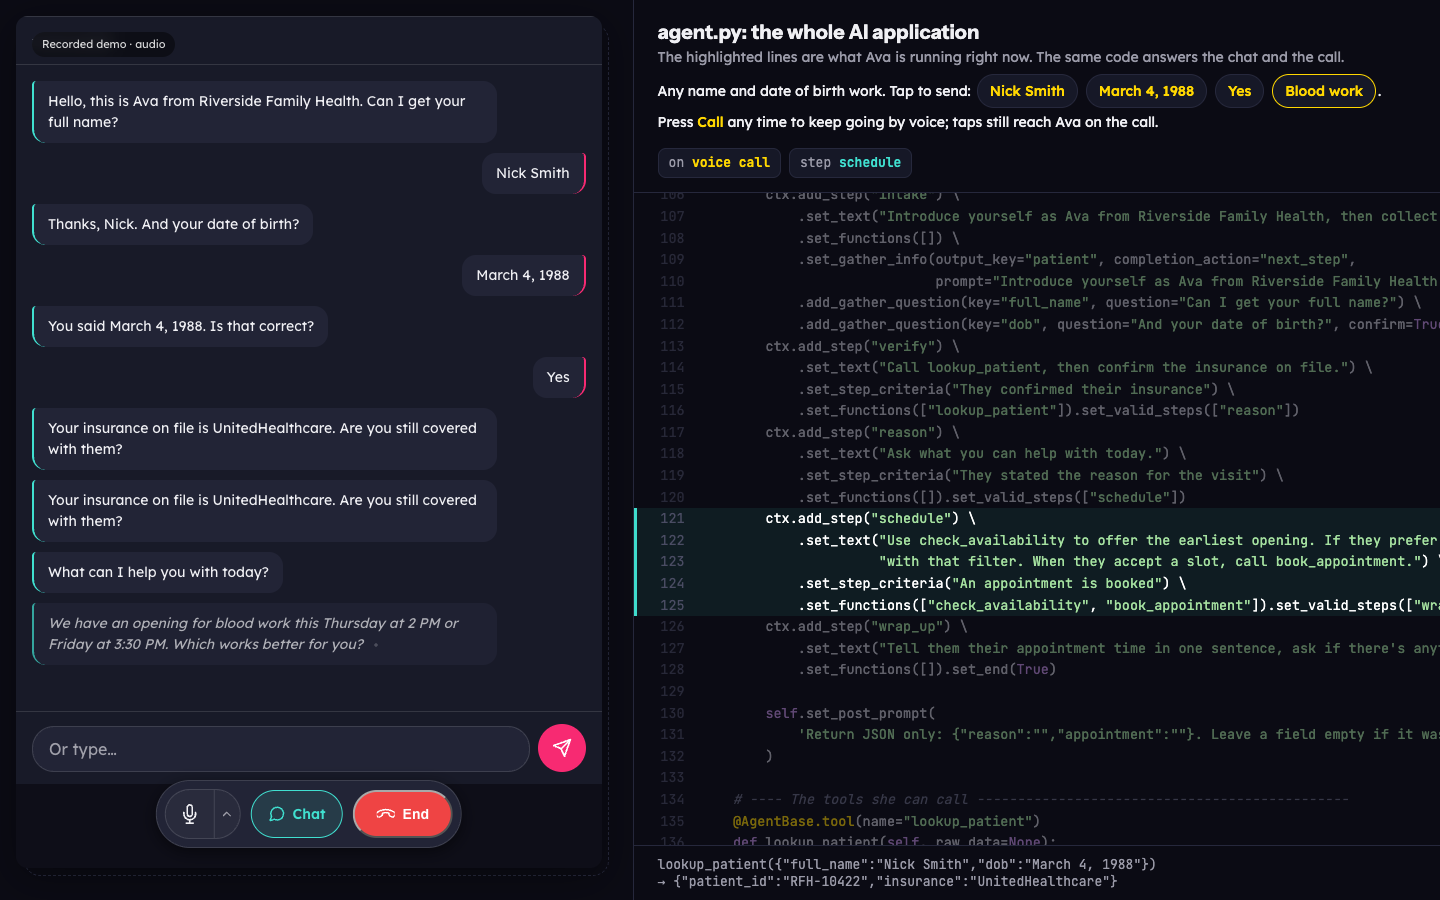
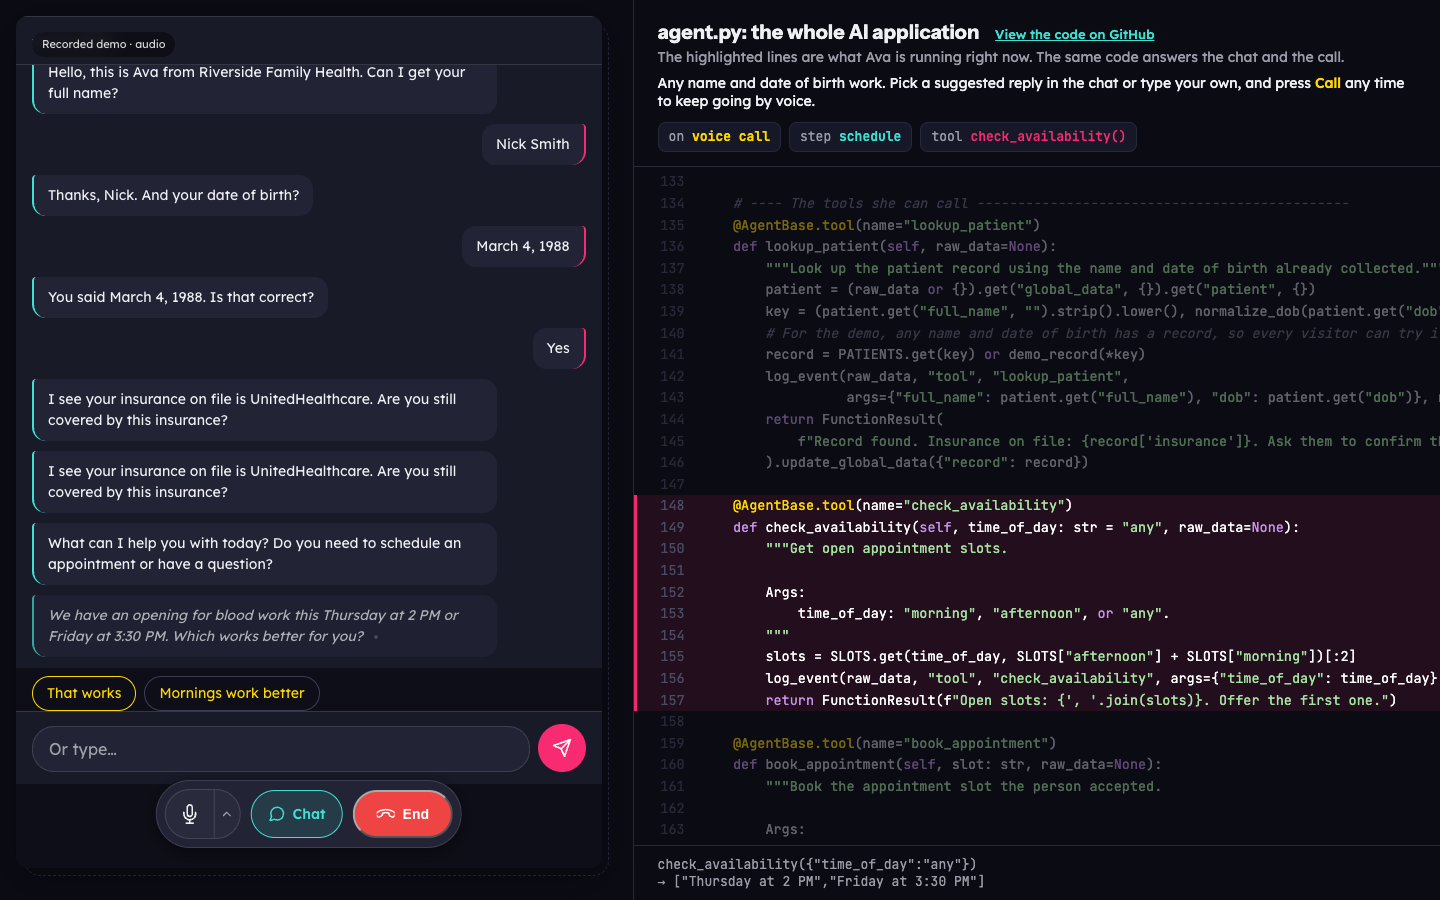
Suggested replies inside the chat window; API paths under /api/healthcare
Replies that follow Ava's latest question sit above the message box in chat
and on a call; tap one or type. Verified: e2e_test.py 16/16, call ended.

Claude-Session: https://claude.ai/code/session_01Dht9Ri7DzYm8fV22TAx4bJ

diff --git a/web/index.html b/web/index.html
@@ -3,7 +3,7 @@
 <head>
 <meta charset="utf-8">
 <meta name="viewport" content="width=device-width, initial-scale=1">
-<title>Chat with Ava</title>
+<title>Healthcare Front Desk</title>
 <link href="https://fonts.googleapis.com/css2?family=Instrument+Sans:wght@600&family=JetBrains+Mono:wght@400;600&family=Lexend:wght@400;500&display=swap" rel="stylesheet">
 <style>
   :root { --page:#0b0b14; --raised:#161827; --line:#26283c; --fg:#f0f0f4; --muted:#9a9aa8;
@@ -29,11 +29,9 @@
   .code { display:flex; flex-direction:column; min-width:0; height:100vh }
   .code header { padding:20px var(--gutter) 14px; border-bottom:1px solid var(--line) }
   .code h2 { font-family:'Instrument Sans', system-ui, sans-serif; font-size:20px; margin:0 0 4px }
+  .code h2 .repo { font-family:'Lexend', system-ui, sans-serif; font-size:13px; font-weight:500; color:var(--turq); margin-left:12px; white-space:nowrap }
   .code header p { margin:0; color:var(--muted); font-size:14px }
-  .code header p.try { margin-top:8px; color:var(--fg); line-height:2 } .try b { color:var(--gold); font-weight:500 }
-  .say { font:inherit; font-weight:500; color:var(--gold); background:var(--raised); border:1px solid var(--line);
-    border-radius:999px; padding:2px 12px; margin:0 2px; cursor:pointer }
-  .say:hover, .say:focus-visible { border-color:var(--gold); outline:none }
+  .code header p.try { margin-top:8px; color:var(--fg) } .try b { color:var(--gold); font-weight:500 }
   .now { display:flex; flex-wrap:wrap; gap:8px; margin-top:12px; min-height:30px }
   .chip { font-family:'JetBrains Mono', monospace; font-size:13px; padding:5px 10px; border-radius:8px; background:var(--raised);
     border:1px solid var(--line); color:var(--muted) }
@@ -73,14 +71,9 @@
 
   <section class="code">
     <header>
-      <h2>agent.py: the whole AI application</h2>
+      <h2>agent.py: the whole AI application <a class="repo" href="https://github.com/signalwire-demos/healthcare-front-desk" target="_blank" rel="noopener">View the code on GitHub</a></h2>
       <p>The highlighted lines are what Ava is running right now. The same code answers the chat and the call.</p>
-      <p class="try">Any name and date of birth work. Tap to send:
-        <button type="button" class="say" data-say="Nick Smith">Nick Smith</button>
-        <button type="button" class="say" data-say="March 4, 1988">March 4, 1988</button>
-        <button type="button" class="say" data-say="Yes">Yes</button>
-        <button type="button" class="say" data-say="Blood work">Blood work</button>.
-        Press <b>Call</b> any time to keep going by voice; taps still reach Ava on the call.</p>
+      <p class="try">Any name and date of birth work. Pick a suggested reply in the chat or type your own, and press <b>Call</b> any time to keep going by voice.</p>
       <div class="now" id="now"><span class="chip">Waiting for the first message</span></div>
     </header>
     <pre id="src"></pre>
@@ -111,7 +104,7 @@ function paint(line) {
 }
 
 async function loadCode() {
-  const c = await (await fetch('/api/riverside/code')).json();
+  const c = await (await fetch('/api/healthcare/code')).json();
   anchors = c.anchors;
   src.innerHTML = c.source.split('\n').map((l) => `<span class="ln">${paint(l) || ' '}</span>`).join('');
   lineEls = [...src.querySelectorAll('.ln')];
@@ -177,7 +170,7 @@ async function poll() {
   let best = null;
   for (const hd of handles) {
     try {
-      const r = await fetch('/api/riverside/events?handle=' + encodeURIComponent(hd));
+      const r = await fetch('/api/healthcare/events?handle=' + encodeURIComponent(hd));
       if (!r.ok) continue;
       const j = await r.json(), t = j.events.length ? j.events[j.events.length - 1].t : 0;
       if (!best || t > best.t) best = { t, ...j };
@@ -200,7 +193,7 @@ function watchCalls(widget) {
 
 (async () => {
   await loadCode();
-  const cfg = await (await fetch('/api/riverside/config')).json();
+  const cfg = await (await fetch('/api/healthcare/config')).json();
   const opts = {
     mode: 'both', defaultMode: 'chat', presentation: 'panel', position: 'top-left',
     gatewayUrl: cfg.gatewayUrl, chatKey: cfg.chatKey, chatStorageKey: STORAGE_KEY, widgetId: 'riverside',
@@ -215,7 +208,7 @@ function watchCalls(widget) {
   const toVoice = widget.switchToVoice.bind(widget);
   widget.switchToVoice = async () => {
     let r, j = {};
-    try { r = await fetch('/api/token/riverside'); j = await r.json().catch(() => ({})); } catch (e) { r = null; }
+    try { r = await fetch('/api/token/healthcare'); j = await r.json().catch(() => ({})); } catch (e) { r = null; }
     if (!r || !r.ok || !j.token || !j.address) {
       const d = j && j.detail, msg = (d && (d.error || d.message)) || (typeof d === 'string' ? d : '') ||
         'Voice calls are not available right now. You can keep chatting.';
@@ -252,15 +245,65 @@ function watchCalls(widget) {
     const d = widget.shadowRoot && widget.shadowRoot.querySelector('dialog.overlay');
     if (d && (widget._overlayState === 'entering' || widget._overlayState === 'open') && !d.open) d.show();
   };
-  // Tap-to-send: in chat it is a chat message; on a call it goes in as a typed turn (type-to-talk).
-  document.querySelectorAll('.say').forEach((btn) => btn.addEventListener('click', async () => {
-    const text = btn.dataset.say;
-    if (widget._overlayState === 'closed') await widget.open();
+  // Suggested replies live inside the chat window, above the message box, in chat and on a call.
+  // They follow Ava's latest question; a tap sends it, or the visitor types their own answer.
+  const SUGGEST = [
+    [/full name|your name/, ['Nick Smith', 'Maria Lopez']],
+    [/date of birth|birthday/, ['March 4, 1988', 'November 21, 1975']],
+    [/is that correct|is that right|did i get that/, ['Yes', 'No']],
+    [/covered|insurance|still active/, ['Yes, still covered', 'No, I changed plans']],
+    [/help you with|reason for|bring you in|what can i/, ['Blood work', 'Annual checkup']],
+    [/\d ?(am|pm)|morning or afternoon|which works|work for you|prefer/, ['That works', 'Mornings work better']],
+    [/anything else/, ["No, that's all", 'What time was that again?']],
+  ];
+  function suggestions() {
+    const history = (widget._chat && widget._chat.getHistory && widget._chat.getHistory()) || [];
+    const last = [...history].reverse().find((e) => e.speaker === 'ai');
+    const said = ((last && last.text) || '').toLowerCase();
+    const hit = SUGGEST.find(([re]) => re.test(said));
+    return hit ? hit[1] : [];
+  }
+  async function sendToAva(text) {
     if (widget._activeMedium === 'voice' && widget._typeToTalkAvailable()) return widget._sendTypedMessage(text);
-    // A chat message sent while Ava is still replying is dropped, so a quick second tap waits its turn.
+    // A chat message sent while Ava is still replying is dropped, so a quick tap waits its turn.
     for (let i = 0; i < 120 && (widget._chatBusy || widget._chatAwaitingReply); i++) await new Promise((r) => setTimeout(r, 250));
     widget._sendChatMessage(text);
-  }));
+  }
+  const sheet = new CSSStyleSheet();
+  sheet.replaceSync(`.sw-suggest { display:flex; flex-wrap:wrap; gap:8px; padding:8px 16px 0 }
+    .sw-suggest[hidden] { display:none }
+    .sw-suggest button { font:inherit; font-size:14px; color:#FFD700; background:transparent; border:1px solid #3a3c55;
+      border-radius:999px; padding:6px 14px; cursor:pointer }
+    .sw-suggest button:hover, .sw-suggest button:focus-visible { border-color:#FFD700; outline:none }`);
+  let shownKey = null;
+  function ensureSuggestions() {
+    const root = widget.shadowRoot;
+    const form = root && root.querySelector('form[part="composer"]');
+    if (!form) return;
+    if (!root.adoptedStyleSheets.includes(sheet)) root.adoptedStyleSheets = [...root.adoptedStyleSheets, sheet];
+    let bar = root.querySelector('.sw-suggest');
+    if (!bar || bar.nextElementSibling !== form) {   // the widget re-rendered: put the bar back above the box
+      if (bar) bar.remove();
+      bar = document.createElement('div');
+      bar.className = 'sw-suggest';
+      bar.setAttribute('aria-label', 'Suggested replies');
+      form.parentNode.insertBefore(bar, form);
+      shownKey = null;
+    }
+    const items = suggestions(), key = items.join('|');
+    if (key === shownKey) return;
+    shownKey = key;
+    bar.hidden = !items.length;
+    bar.replaceChildren(...items.map((text) => {
+      const b = document.createElement('button');
+      b.type = 'button'; b.textContent = text; b.dataset.say = text;
+      b.addEventListener('click', () => sendToAva(text));
+      return b;
+    }));
+  }
+  const updated = widget.updated.bind(widget);
+  widget.updated = (...a) => { updated(...a); ensureSuggestions(); };
+  setInterval(ensureSuggestions, 500);
   widget.open();
   poll();
 })();

diff --git a/app.py b/app.py
@@ -3,11 +3,11 @@ Hosts Ava (agent.py) for the chat page. Nothing in here is about Ava herself.
 
   /                        the page: SignalWire address widget + live code panel
   /riverside               Ava's SWML, fetched by the AI Chat service and by calls (basic auth)
-  /api/riverside/chat/...  ChatGateway (text turns) and HandoffRouter (chat <-> call), from signalwire-sdk
-  /api/riverside/config    gateway URL and publishable chat key for the page
-  /api/token/riverside     a guest token for the browser call, minted when Call is pressed
-  /api/riverside/code      agent.py with the line ranges the code panel lights up
-  /api/riverside/events    what ran in this conversation
+  /api/healthcare/chat/...  ChatGateway (text turns) and HandoffRouter (chat <-> call), from signalwire-sdk
+  /api/healthcare/config    gateway URL and publishable chat key for the page
+  /api/token/healthcare     a guest token for the browser call, minted when Call is pressed
+  /api/healthcare/code      agent.py with the line ranges the code panel lights up
+  /api/healthcare/events    what ran in this conversation
 
 Run:  python app.py   (one process: conversations, handoffs and rate limits live in memory)
 """
@@ -255,19 +255,19 @@ def create_server():
     @server.app.middleware("http")
     async def chat_root(request: Request, call_next):
         # The widget posts to the gateway URL itself; the SDK router answers on ".../chat/".
-        if request.url.path == "/api/riverside/chat":
-            request.scope["path"] = "/api/riverside/chat/"
+        if request.url.path == "/api/healthcare/chat":
+            request.scope["path"] = "/api/healthcare/chat/"
         return await call_next(request)
 
-    server.app.include_router(gateway.router(), prefix="/api/riverside/chat")
-    server.app.include_router(handoff.router(), prefix="/api/riverside/chat")
+    server.app.include_router(gateway.router(), prefix="/api/healthcare/chat")
+    server.app.include_router(handoff.router(), prefix="/api/healthcare/chat")
     server.register(agent, "/riverside")
 
-    @server.app.get("/api/riverside/config")
+    @server.app.get("/api/healthcare/config")
     def config():
-        return {"gatewayUrl": "/api/riverside/chat", "chatKey": CHAT_KEY}
+        return {"gatewayUrl": "/api/healthcare/chat", "chatKey": CHAT_KEY}
 
-    @server.app.get("/api/token/riverside")
+    @server.app.get("/api/token/healthcare")
     def call_token(request: Request):
         ip = (request.headers.get("cf-connecting-ip") or request.headers.get("x-forwarded-for", "").split(",")[0]
               or (request.client.host if request.client else "")).strip()
@@ -285,11 +285,11 @@ def create_server():
         TOKEN_MINTS[ip].append(now)
         return {"token": r.json()["token"], "address": handler_info["address"]}
 
-    @server.app.get("/api/riverside/code")
+    @server.app.get("/api/healthcare/code")
     def code():
         return code_map()
 
-    @server.app.get("/api/riverside/events")
+    @server.app.get("/api/healthcare/events")
     def events(handle: str = ""):
         try:
             session = root_of(gateway.read_handle(handle))

diff --git a/e2e_test.py b/e2e_test.py
@@ -55,7 +55,7 @@ def say(page, msg):
     box.press("Enter")
 
 def events(page):
-    return page.evaluate("async () => { const hs=[...handles]; let best=null; for (const h of hs) { const r=await fetch('/api/riverside/events?handle='+encodeURIComponent(h)); if(!r.ok) continue; const j=await r.json(); const t=j.events.length?j.events[j.events.length-1].t:0; if(!best||t>best.t) best={t,...j}; } return best; }")
+    return page.evaluate("async () => { const hs=[...handles]; let best=null; for (const h of hs) { const r=await fetch('/api/healthcare/events?handle='+encodeURIComponent(h)); if(!r.ok) continue; const j=await r.json(); const t=j.events.length?j.events[j.events.length-1].t:0; if(!best||t>best.t) best={t,...j}; } return best; }")
 
 with sync_playwright() as p:
     browser = p.chromium.launch(channel="chrome", headless=True, args=[

diff --git a/README.md b/README.md
@@ -19,7 +19,8 @@ Try it live on [tryit.signalwire.com](https://tryit.signalwire.com/apps/healthca
   `schedule`, `wrap_up`). The patient record, the booking and the summary come from code, so the model
   cannot double-book or invent a patient.
 - **Any name works.** For the demo, any name and date of birth gets a stable made-up record. The page
-  has tap-to-send buttons for the details, which also reach Ava during a call (type-to-talk).
+  shows suggested replies above the message box that follow Ava's latest question. Tap one or type
+  your own; on a call, taps reach Ava as typed turns (type-to-talk).
 
 All patient data is fictional.
 
@@ -74,6 +75,7 @@ in the page. Re-check them if you upgrade the widget:
 - After switching back to text, a late call "disconnected" event closed the panel.
 - The panel opened as a modal dialog, which blocked the rest of the page.
 - A chat message sent while Ava was still replying was dropped.
+- There is no suggested-replies feature, so the page inserts a bar above the message box.
 
 ## Test
 
